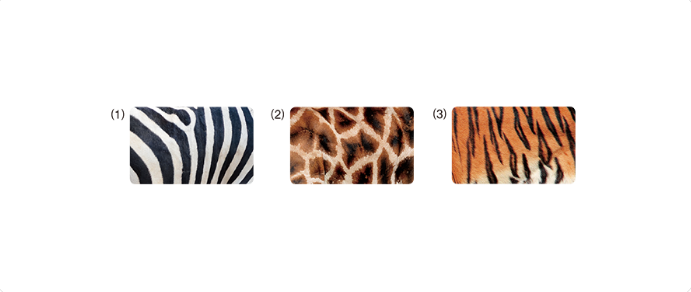
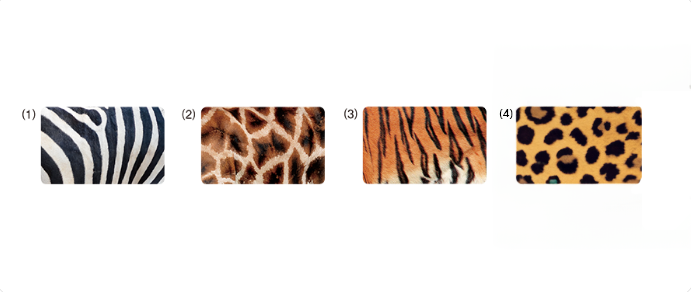
문제 라디오버튼 4개로 통일, 노인 퀴즈 이미지 수정

Changed region(s): [[0.0304, 0.339, 0.9421, 0.6473]]

diff --git a/seniorTest1-5.html b/seniorTest1-5.html
@@ -8,6 +8,7 @@
   <link rel="preconnect" href="https://fonts.googleapis.com">
   <link rel="preconnect" href="https://fonts.gstatic.com" crossorigin>
   <link href="https://fonts.googleapis.com/css2?family=Noto+Sans+KR:wght@100..900&display=swap" rel="stylesheet"> 
+  <script defer src="./js/seniorTest-modal.js"></script>
 </head>
 <body>
   <main>
@@ -19,13 +20,14 @@
       <p>5. 문어의 다리가 몇개인지 고르세요</p>
       <img src="./img/test1-5.png" alt="">
       <div class="seniorTest-radioButton">
+        <div>6개<input type="radio" name="test1-5-radio" class="test-radio"></div>
         <div>7개<input type="radio" name="test1-5-radio" class="test-radio"></div>
         <div>8개<input type="radio" name="test1-5-radio" class="test-radio"></div>
         <div>10개<input type="radio" name="test1-5-radio" class="test-radio"></div>
       </div>
       <div class="seniorTest-buttons">
         <div class="seniorTest-button back"><a href="./seniorTest1-4.html">이전문항</a></div>
-        <div class="seniorTest-button"><a href="">검사종료</a></div>
+        <div class="seniorTest-button end"><a href="#">검사종료</a></div>
       </div>
       <div><p>!! 문항을 제대로 작성하지 않을 경우, 결과의 신뢰도가 떨어집니다.</p></div>
     </div>

diff --git a/seniorTest2-5.html b/seniorTest2-5.html
@@ -8,6 +8,7 @@
   <link rel="preconnect" href="https://fonts.googleapis.com">
   <link rel="preconnect" href="https://fonts.gstatic.com" crossorigin>
   <link href="https://fonts.googleapis.com/css2?family=Noto+Sans+KR:wght@100..900&display=swap" rel="stylesheet"> 
+  <script src="./js/seniorTest-modal.js"></script>
 </head>
 <body>
   <main>
@@ -22,10 +23,12 @@
         <div>1<input type="radio" name="test2-5-radio" class="test-radio"></div>
         <div>2<input type="radio" name="test2-5-radio" class="test-radio"></div>
         <div>3<input type="radio" name="test2-5-radio" class="test-radio"></div>
+        <div>4<input type="radio" name="test2-5-radio" class="test-radio"></div>
+
       </div>
       <div class="seniorTest-buttons">
         <div class="seniorTest-button back"><a href="./seniorTest2-4.html">이전문항</a></div>
-        <div class="seniorTest-button"><a href="">검사종료</a></div>
+        <div class="seniorTest-button end"><a href="#">검사종료</a></div>
       </div>
       <div><p>!! 문항을 제대로 작성하지 않을 경우, 결과의 신뢰도가 떨어집니다.</p></div>
     </div>

diff --git a/seniorTest3-3-1.html b/seniorTest3-3-1.html
@@ -8,6 +8,7 @@
   <link rel="preconnect" href="https://fonts.googleapis.com">
   <link rel="preconnect" href="https://fonts.gstatic.com" crossorigin>
   <link href="https://fonts.googleapis.com/css2?family=Noto+Sans+KR:wght@100..900&display=swap" rel="stylesheet"> 
+  <script defer src="./js/seniorTest-modal.js"></script>
 </head>
 <body>
   <main>
@@ -26,7 +27,7 @@
       </div>
       <div class="seniorTest-buttons">
         <div class="seniorTest-button back"><a href="./seniorTest3-3.html">이전문항</a></div>
-        <div class="seniorTest-button"><a href="">검사종료</a></div>
+        <div class="seniorTest-button end"><a href="#">검사종료</a></div>
       </div>
       <div><p>!! 문항을 제대로 작성하지 않을 경우, 결과의 신뢰도가 떨어집니다.</p></div>
     </div>

diff --git a/seniorTest3-1-2.html b/seniorTest3-1-2.html
@@ -22,6 +22,8 @@
         <div>가위<input type="radio" name="test3-1-2-radio" class="test-radio"></div>
         <div>신발<input type="radio" name="test3-1-2-radio" class="test-radio"></div>
         <div>리모콘<input type="radio" name="test3-1-2-radio" class="test-radio"></div>
+        <div>양말<input type="radio" name="test3-1-2-radio" class="test-radio"></div>
+
       </div>
       <div class="seniorTest-buttons">
         <div class="seniorTest-button back"><a href="./seniorTest3-1-1.html">이전문항</a></div>

diff --git a/seniorTest3-2-2.html b/seniorTest3-2-2.html
@@ -19,7 +19,6 @@
       <p>4. 같은 숫자가 2개 있었습니다. 무슨숫자인가요?</p>
       <img src="./img/test3-2-2.png" alt="">
       <div class="seniorTest-radioButton">
-        <div>0<input type="radio" name="test3-2-2-radio" class="test-radio"></div>
         <div>1<input type="radio" name="test3-2-2-radio" class="test-radio"></div>
         <div>3<input type="radio" name="test3-2-2-radio" class="test-radio"></div>
         <div>7<input type="radio" name="test3-2-2-radio" class="test-radio"></div>

diff --git a/seniorTest1-3.html b/seniorTest1-3.html
@@ -22,6 +22,7 @@
         <div>당근<input type="radio" name="test1-3-radio" class="test-radio"></div>
         <div>오이<input type="radio" name="test1-3-radio" class="test-radio"></div>
         <div>가지<input type="radio" name="test1-3-radio" class="test-radio"></div>
+        <div>바나나<input type="radio" name="test1-3-radio" class="test-radio"></div>
       </div>
       <div class="seniorTest-buttons">
         <div class="seniorTest-button back"><a href="./seniorTest1-2.html">이전문항</a></div>

diff --git a/seniorTest3-2-1.html b/seniorTest3-2-1.html
@@ -19,7 +19,6 @@
       <p>3. 다섯번째 숫자는 무엇이었나요?</p>
       <img src="./img/test3-2-1.png" alt="">
       <div class="seniorTest-radioButton">
-        <div>0<input type="radio" name="test3-2-1-radio" class="test-radio"></div>
         <div>1<input type="radio" name="test3-2-1-radio" class="test-radio"></div>
         <div>3<input type="radio" name="test3-2-1-radio" class="test-radio"></div>
         <div>7<input type="radio" name="test3-2-1-radio" class="test-radio"></div>

diff --git a/seniorTest2-2.html b/seniorTest2-2.html
@@ -22,6 +22,8 @@
         <div>1<input type="radio" name="test2-2-radio" class="test-radio"></div>
         <div>2<input type="radio" name="test2-2-radio" class="test-radio"></div>
         <div>3<input type="radio" name="test2-2-radio" class="test-radio"></div>
+        <div>4<input type="radio" name="test2-2-radio" class="test-radio"></div>
+
       </div>
       <div class="seniorTest-buttons">
         <div class="seniorTest-button back"><a href="./seniorTest2-1.html">이전문항</a></div>

diff --git a/seniorTest2-3.html b/seniorTest2-3.html
@@ -22,6 +22,8 @@
         <div>1<input type="radio" name="test2-3-radio" class="test-radio"></div>
         <div>2<input type="radio" name="test2-3-radio" class="test-radio"></div>
         <div>3<input type="radio" name="test2-3-radio" class="test-radio"></div>
+        <div>4<input type="radio" name="test2-3-radio" class="test-radio"></div>
+
       </div>
       <div class="seniorTest-buttons">
         <div class="seniorTest-button back"><a href="./seniorTest2-2.html">이전문항</a></div>

diff --git a/seniorTest2-4.html b/seniorTest2-4.html
@@ -22,6 +22,8 @@
         <div>1<input type="radio" name="test2-4-radio" class="test-radio"></div>
         <div>2<input type="radio" name="test2-4-radio" class="test-radio"></div>
         <div>3<input type="radio" name="test2-4-radio" class="test-radio"></div>
+        <div>4<input type="radio" name="test2-4-radio" class="test-radio"></div>
+
       </div>
       <div class="seniorTest-buttons">
         <div class="seniorTest-button back"><a href="./seniorTest2-3.html">이전문항</a></div>

diff --git a/seniorTest1-2.html b/seniorTest1-2.html
@@ -22,6 +22,7 @@
         <div>5<input type="radio" name="test1-2-radio" class="test-radio"></div>
         <div>6<input type="radio" name="test1-2-radio" class="test-radio"></div>
         <div>7<input type="radio" name="test1-2-radio" class="test-radio"></div>
+        <div>8<input type="radio" name="test1-2-radio" class="test-radio"></div>
       </div>
       <div class="seniorTest-buttons">
         <div class="seniorTest-button back"><a href="./seniorTest1-1.html">이전문항</a></div>

diff --git a/seniorTest1-4.html b/seniorTest1-4.html
@@ -22,6 +22,7 @@
         <div>1<input type="radio" name="test1-4-radio" class="test-radio"></div>
         <div>2<input type="radio" name="test1-4-radio" class="test-radio"></div>
         <div>3<input type="radio" name="test1-4-radio" class="test-radio"></div>
+        <div>4<input type="radio" name="test1-4-radio" class="test-radio"></div>
       </div>
       <div class="seniorTest-buttons">
         <div class="seniorTest-button back"><a href="./seniorTest1-3.html">이전문항</a></div>
